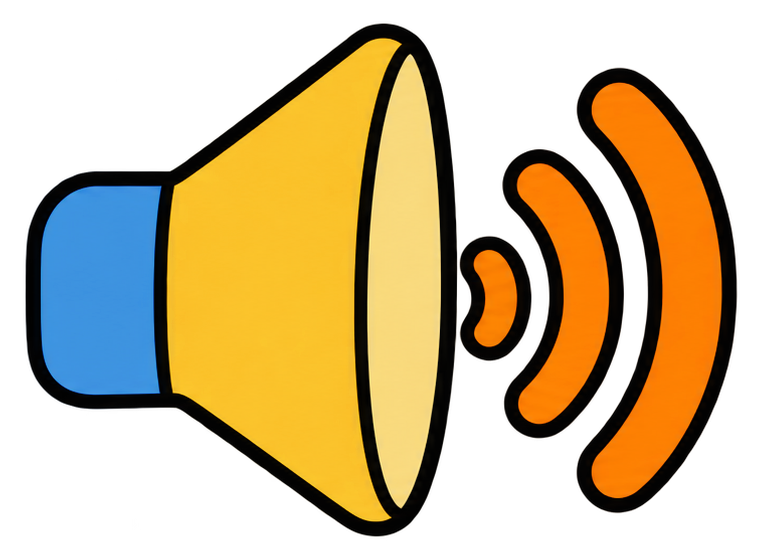
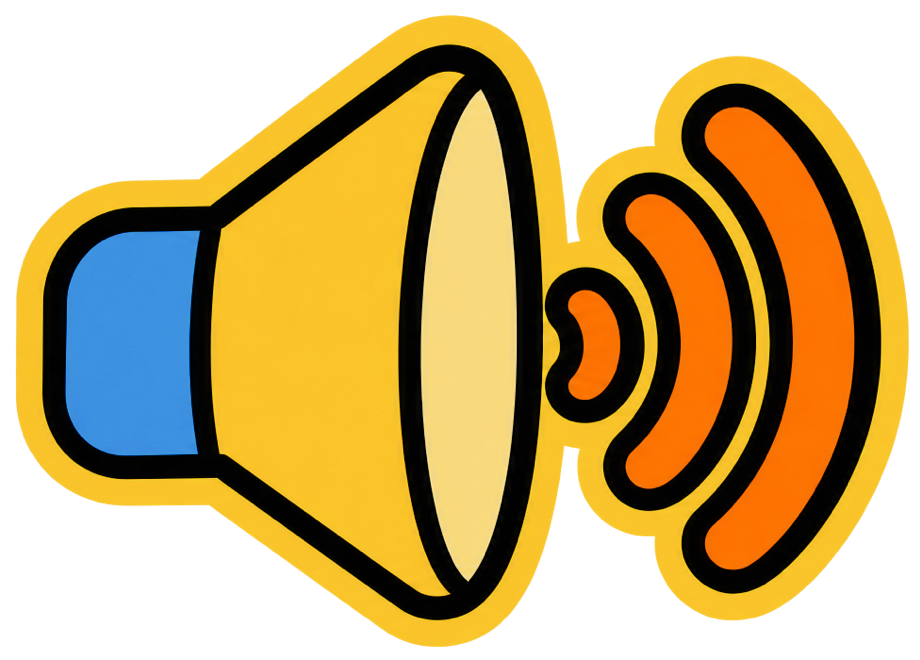
Actualizar iconos de sonido en assets/ui con los nuevos disenos bordeados y normalizados en escala 1:1

diff --git a/style.css b/style.css
@@ -1931,7 +1931,7 @@ body {
   height: 100%;
   opacity: 0.9;
   pointer-events: none;
-  transition: transform 0.52s cubic-bezier(0.22, 1, 0.36, 1), opacity 0.38s ease;
+  transition: transform 0.48s cubic-bezier(0.25, 1, 0.5, 1), opacity 0.35s ease;
   will-change: transform, opacity;
 }
 
@@ -1942,84 +1942,55 @@ body {
   height: 100%;
   object-fit: contain;
   filter: none;
-  transition: transform 0.4s ease;
   pointer-events: none;
 }
 
-/* Posiciones de inicio (Brazos juntos y cercanos al centro en posición de espera) */
+/* Posiciones de inicio (Brazos visibles en sus cuadrantes listos para lanzarse al centro) */
 .arm-riolita {
-  transform: translate(-8%, -8%);
-  animation: arm-hover-corner-1 2.8s ease-in-out infinite alternate;
+  transform: translate(-18%, -18%) rotate(-3deg) scale(0.94);
   z-index: 1;
 }
 
 .arm-basalto {
-  transform: translate(8%, -8%);
-  animation: arm-hover-corner-2 3.1s ease-in-out infinite alternate 0.4s;
+  transform: translate(18%, -18%) rotate(3deg) scale(0.94);
   z-index: 2;
 }
 
 .arm-crunchy {
-  transform: translate(8%, 8%);
-  animation: arm-hover-corner-3 2.9s ease-in-out infinite alternate 0.8s;
+  transform: translate(18%, 18%) rotate(-2deg) scale(0.94);
   z-index: 3;
 }
 
 .arm-gato {
-  transform: translate(-8%, 8%);
-  animation: arm-hover-corner-4 3.2s ease-in-out infinite alternate 1.2s;
+  transform: translate(-18%, 18%) rotate(2deg) scale(0.94);
   z-index: 4;
 }
 
-@keyframes arm-hover-corner-1 {
-  0% { transform: translate(-8%, -8%); }
-  100% { transform: translate(-6%, -6%); }
-}
-
-@keyframes arm-hover-corner-2 {
-  0% { transform: translate(8%, -8%); }
-  100% { transform: translate(6%, -6%); }
-}
-
-@keyframes arm-hover-corner-3 {
-  0% { transform: translate(8%, 8%); }
-  100% { transform: translate(6%, 6%); }
-}
-
-@keyframes arm-hover-corner-4 {
-  0% { transform: translate(-8%, 8%); }
-  100% { transform: translate(-6%, 6%); }
-}
-
-/* Capa 1: Riolita (Llega al centro de la pila de forma fluida) */
+/* Capa 1: Riolita (Viaja fluidamente al centro de la pila) */
 .arm-riolita.is-in-center {
   opacity: 1;
-  transform: translate(3.8%, 3.8%);
-  animation: none;
+  transform: translate(3.8%, 3.8%) rotate(0deg) scale(1);
   z-index: 10;
 }
 
-/* Capa 2: Basalto (Se solapa y coloca su mano encima de Riolita de forma fluida) */
+/* Capa 2: Basalto (Viaja fluidamente y coloca su mano encima de Riolita) */
 .arm-basalto.is-in-center {
   opacity: 1;
-  transform: translate(-3.8%, 3.8%);
-  animation: none;
+  transform: translate(-3.8%, 3.8%) rotate(0deg) scale(1);
   z-index: 11;
 }
 
-/* Capa 3: Crunchy (Se solapa encima de Basalto y Riolita de forma fluida) */
+/* Capa 3: Crunchy (Viaja fluidamente encima de Basalto y Riolita) */
 .arm-crunchy.is-in-center {
   opacity: 1;
-  transform: translate(-3.8%, -3.8%);
-  animation: none;
+  transform: translate(-3.8%, -3.8%) rotate(0deg) scale(1);
   z-index: 12;
 }
 
-/* Capa 4: Gato (Se solapa coronando la unión del equipo de forma fluida) */
+/* Capa 4: Gato (Viaja fluidamente coronando la unión del equipo) */
 .arm-gato.is-in-center {
   opacity: 1;
-  transform: translate(3.8%, -3.8%);
-  animation: none;
+  transform: translate(3.8%, -3.8%) rotate(0deg) scale(1);
   z-index: 13;
 }
 
